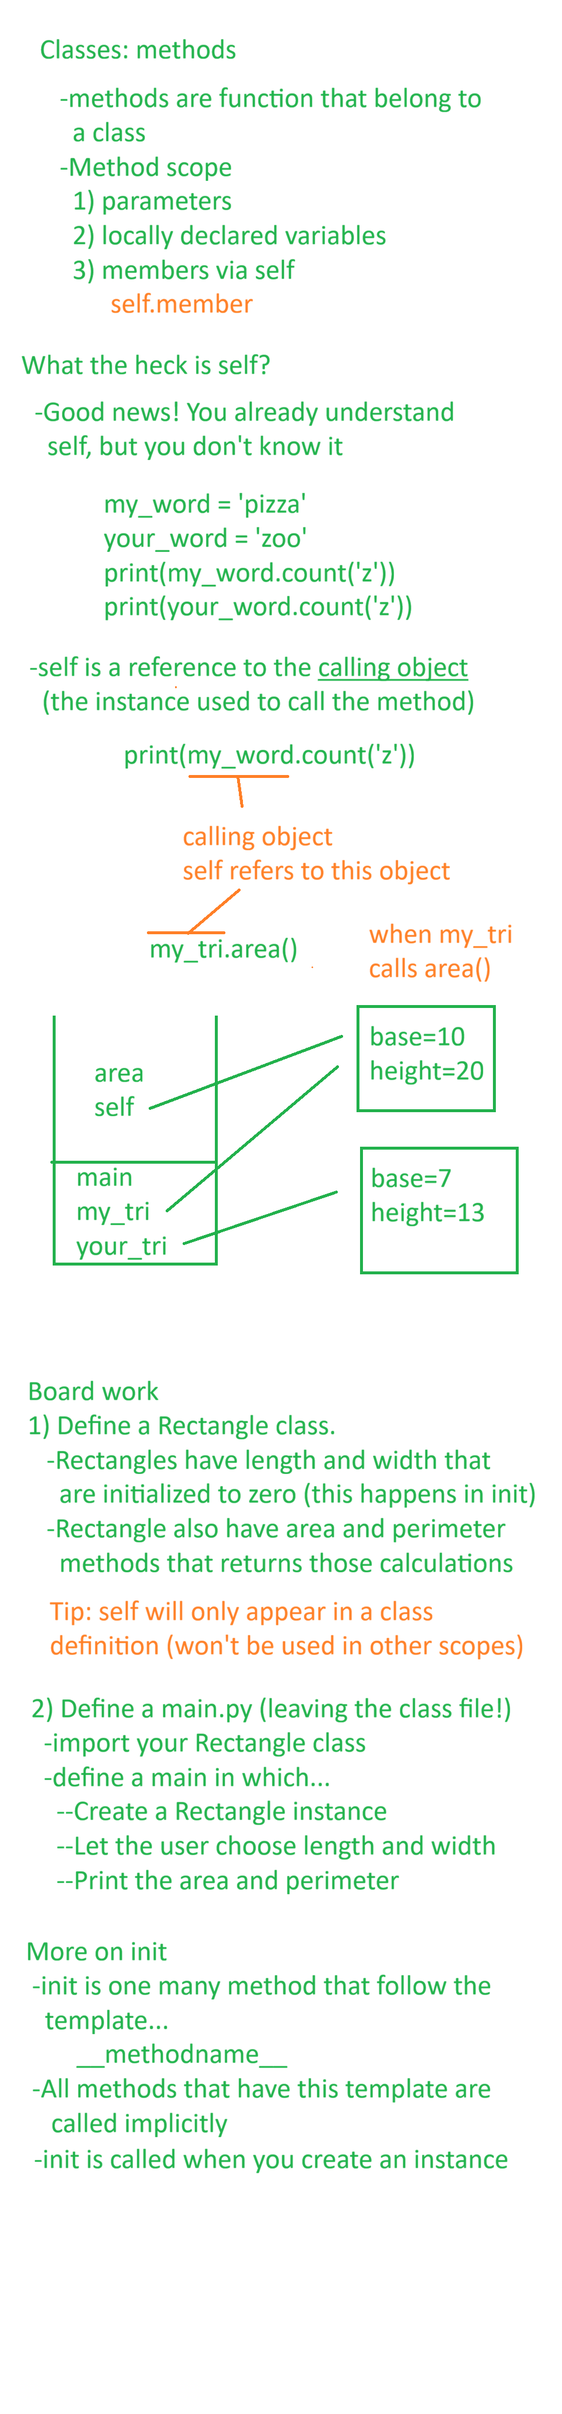
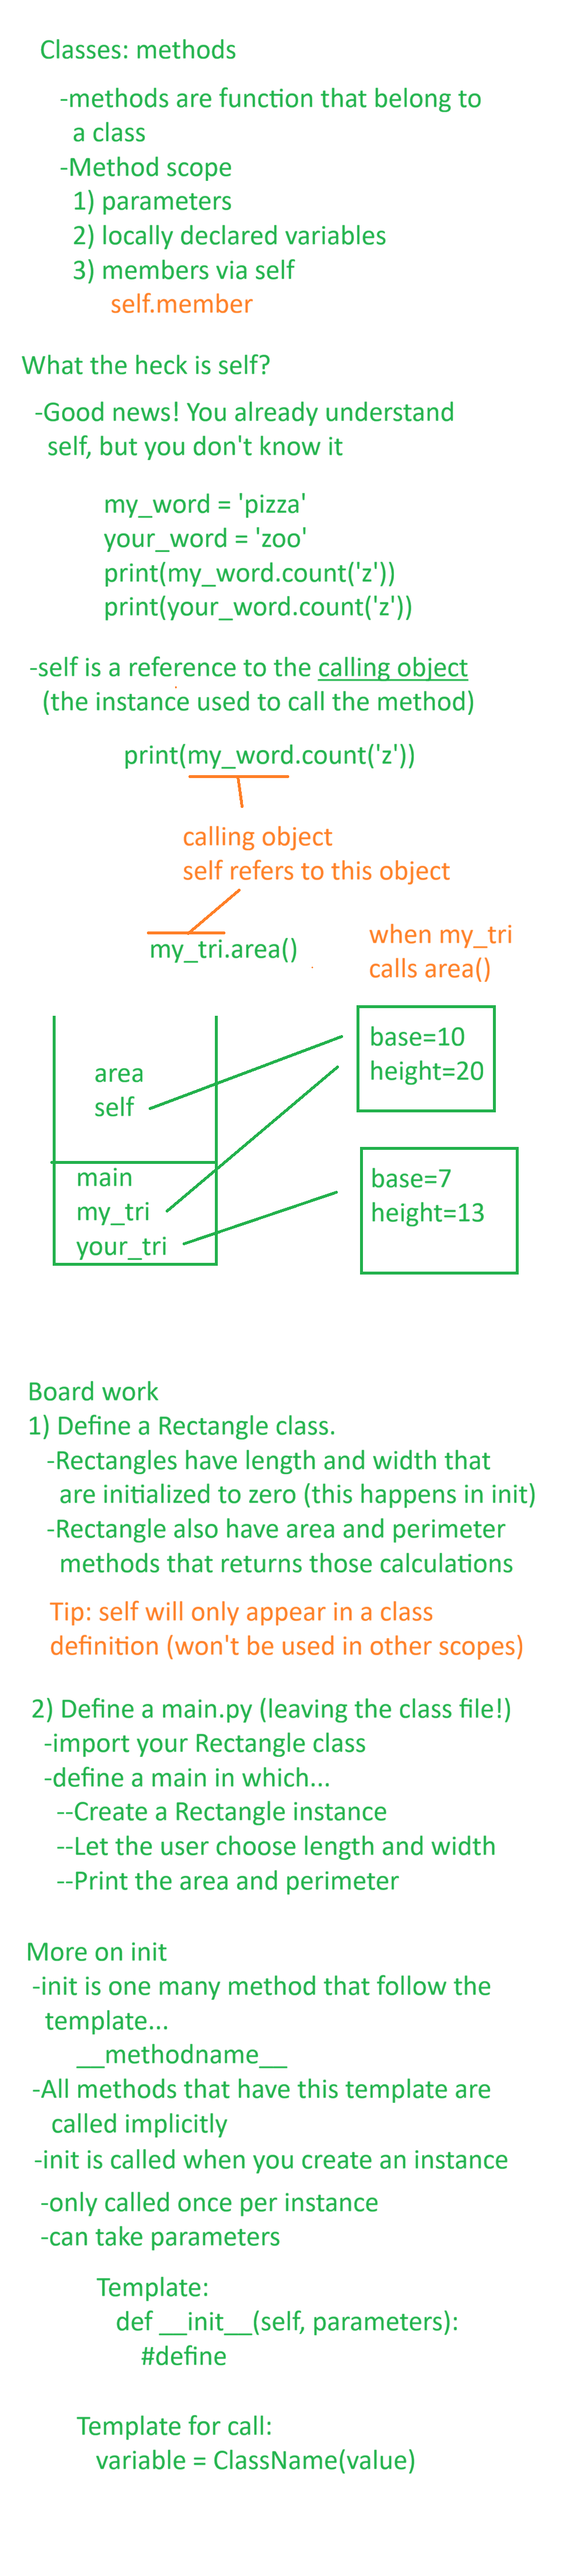
Add 168/268 notes

diff --git a/eecs168/2026fall/TR/2026.11.17.classes-part-2/triangle.py b/eecs168/2026fall/TR/2026.11.17.classes-part-2/triangle.py
@@ -1,10 +1,10 @@
 #triangle.py
 
 class Triangle:
-    def __init__(self):
+    def __init__(self, base, height):
         print('init called')
-        self.base = 0
-        self.height = 0
+        self.base = base
+        self.height = height
 
     def area(self):
         result = (1/2)*self.base*self.height

diff --git a/eecs168/2026fall/TR/2026.11.19.class-data-hiding/account.py b/eecs168/2026fall/TR/2026.11.19.class-data-hiding/account.py
@@ -1,0 +1,14 @@
+#account.py
+
+class Account:
+    def __init__(self):
+        self._balance = 0
+
+    def deposit(self, amount):
+        if amount > 0:
+            self._balance += amount
+        else:
+            pass
+
+    def check_balance(self):
+        return self._balance

diff --git a/eecs168/2026fall/TR/2026.11.17.classes-part-2/main.py b/eecs168/2026fall/TR/2026.11.17.classes-part-2/main.py
@@ -3,10 +3,12 @@
 from triangle import Triangle
 
 def main():
-    my_tri = Triangle()
-    your_tri = Triangle()
+    my_tri = Triangle(10, 20) #calls init
+    your_tri = Triangle(7, 13)#calls init
 
 
+    print(my_tri.area())
+    print(your_tri.area())
 
 
 main()

diff --git a/eecs168/2026fall/TR/2026.11.19.class-data-hiding/main.py b/eecs168/2026fall/TR/2026.11.19.class-data-hiding/main.py
@@ -1,0 +1,16 @@
+#main.py
+
+from account import Account
+
+def main():
+    my_account = Account()
+    my_account.deposit(10)
+
+    print(my_account.check_balance())
+
+    my_account.deposit(-50)
+    print(my_account.check_balance())
+
+main()
+
+    

diff --git a/eecs268/2026fall/MWF/2026.11.16.complexity/complexitydemo.py b/eecs268/2026fall/MWF/2026.11.16.complexity/complexitydemo.py
@@ -1,5 +1,5 @@
 #Algorithm 1: Constant, O(1)
-for num in range(10):
+for num in range(100000):
     print(num)
 
 
